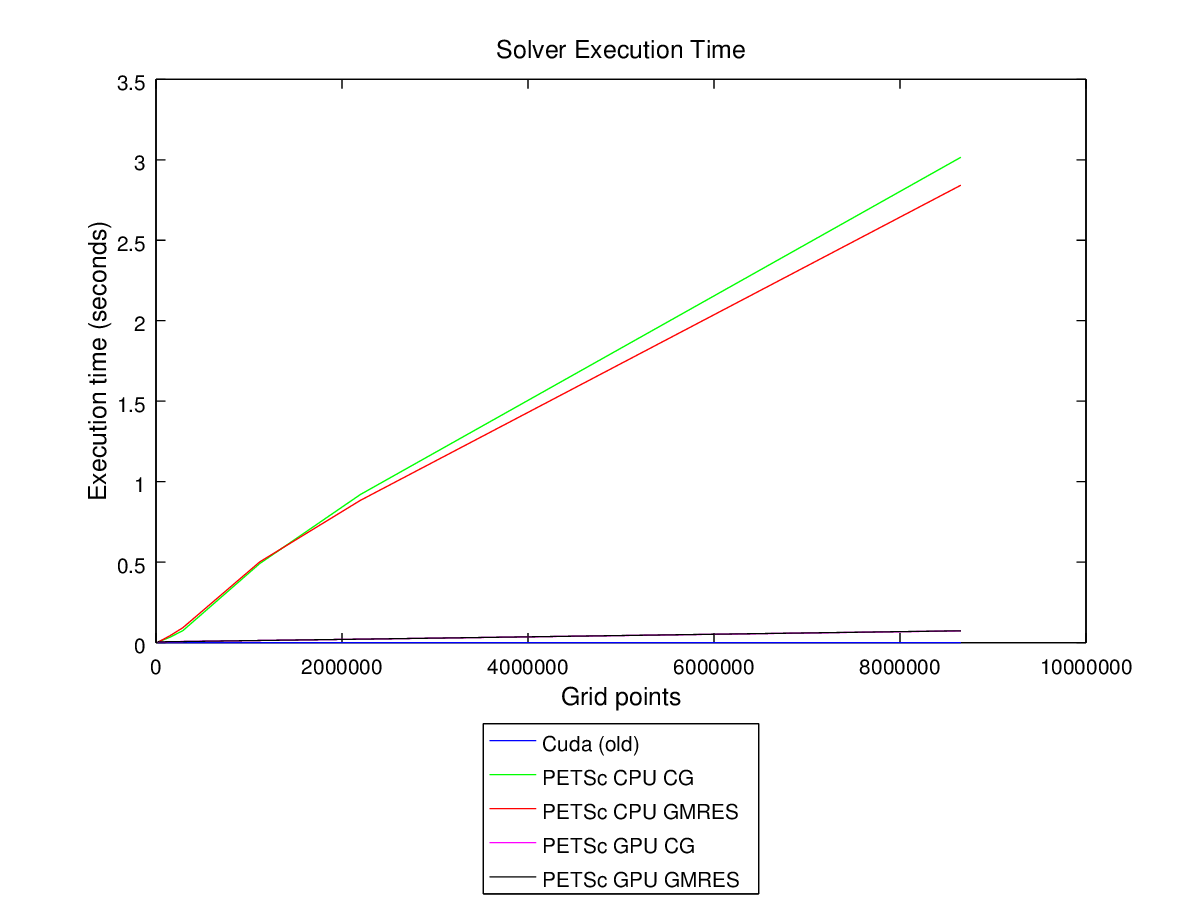
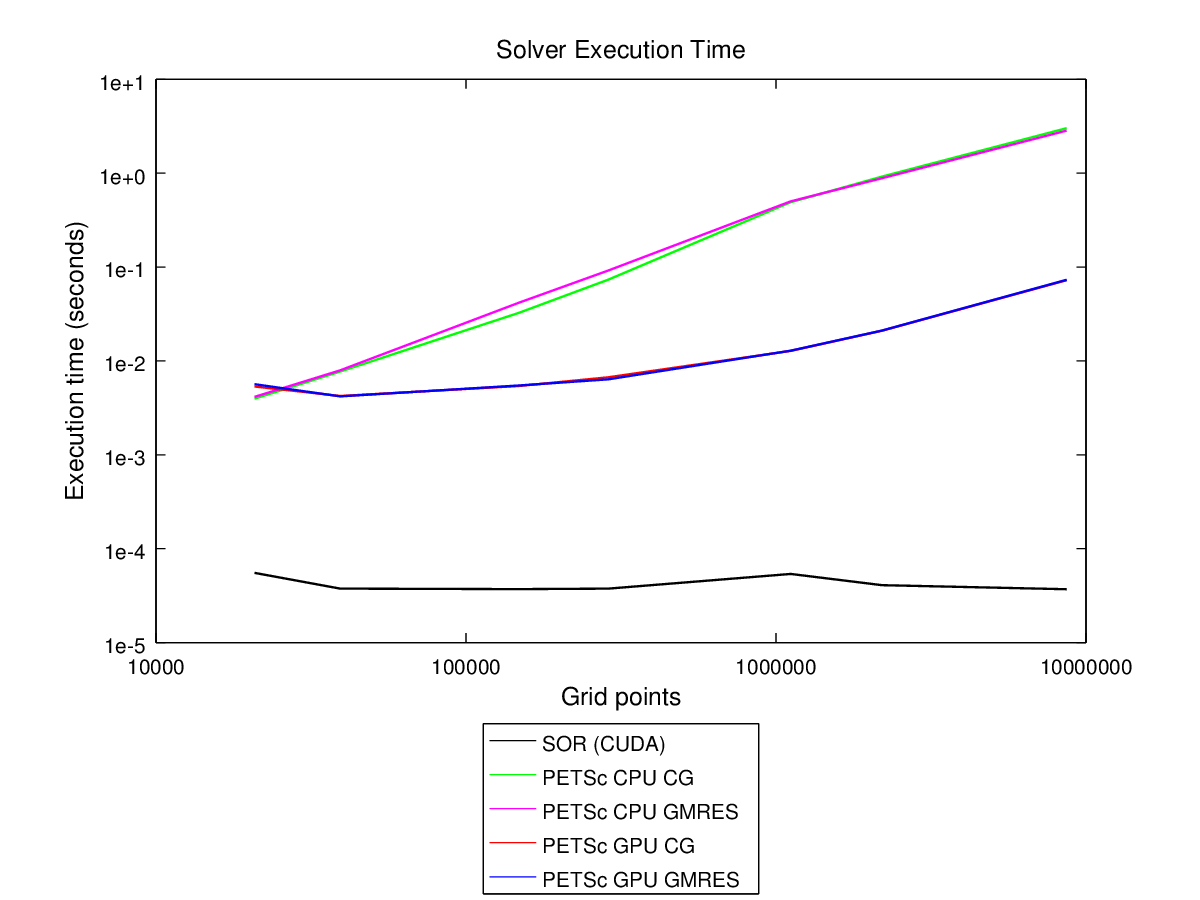
...

diff --git a/results/data/sb/plot_data.m b/results/data/sb/plot_data.m
@@ -35,30 +35,16 @@ end
 
 hold on;
 title("Solver Execution Time", "FontSize", 12, "FontName", "Arial");
-plot(cuda(1, :), cuda(2, :), "Color", "blue");
-plot(petsc_cpu_cg(1, :), petsc_cpu_cg(2, :), "Color", "green");
-plot(petsc_cpu_gmres(1, :), petsc_cpu_gmres(2, :), "Color", "red");
-plot(petsc_gpu_cg(1, :), petsc_gpu_cg(2, :), "Color", "magenta");
-plot(petsc_gpu_gmres(1, :), petsc_gpu_gmres(2, :), "Color", "black");
+loglog(cuda(1, :), cuda(2, :), "Color", "black", "LineWidth", 1);
+loglog(petsc_cpu_cg(1, :), petsc_cpu_cg(2, :), "Color", "green", "LineWidth", 1);
+loglog(petsc_cpu_gmres(1, :), petsc_cpu_gmres(2, :), "Color", "magenta", "LineWidth", 1);
+loglog(petsc_gpu_cg(1, :), petsc_gpu_cg(2, :), "Color", "red", "LineWidth", 1);
+loglog(petsc_gpu_gmres(1, :), petsc_gpu_gmres(2, :), "Color", "blue", "LineWidth", 1);
 xlabel("Grid points", "FontSize", 12, "FontName", "Arial");
 set(gca,'XTickLabel',num2str(get(gca,'XTick').'))
 ylabel("Execution time (seconds)", "FontSize", 12, "FontName", "Arial");
-legend("Cuda (old)", "PETSc CPU CG", "PETSc CPU GMRES", "PETSc GPU CG", "PETSc GPU GMRES",
+legend("SOR (CUDA)", "PETSc CPU CG", "PETSc CPU GMRES", "PETSc GPU CG", "PETSc GPU GMRES",
 	"Location", "SouthOutside");
 hold off;
 print("exec_time_all.png");
-
-clf;
-
-hold on;
-title("GPU Solver Execution Time", "FontSize", 12, "FontName", "Arial");
-plot(cuda(1, :), cuda(2, :), "Color", "blue");
-plot(petsc_gpu_cg(1, :), petsc_gpu_cg(2, :), "Color", "magenta");
-plot(petsc_gpu_gmres(1, :), petsc_gpu_gmres(2, :), "Color", "black");
-xlabel("Grid points", "FontSize", 12, "FontName", "Arial");
-set(gca,'XTickLabel',num2str(get(gca,'XTick').'))
-ylabel("Execution time (seconds)", "FontSize", 12, "FontName", "Arial");
-legend("Cuda (old)", "PETSc GPU CG", "PETSc GPU GMRES", "Location", "SouthOutside");
-hold off;
-print("exec_time_gpu.png");
 
